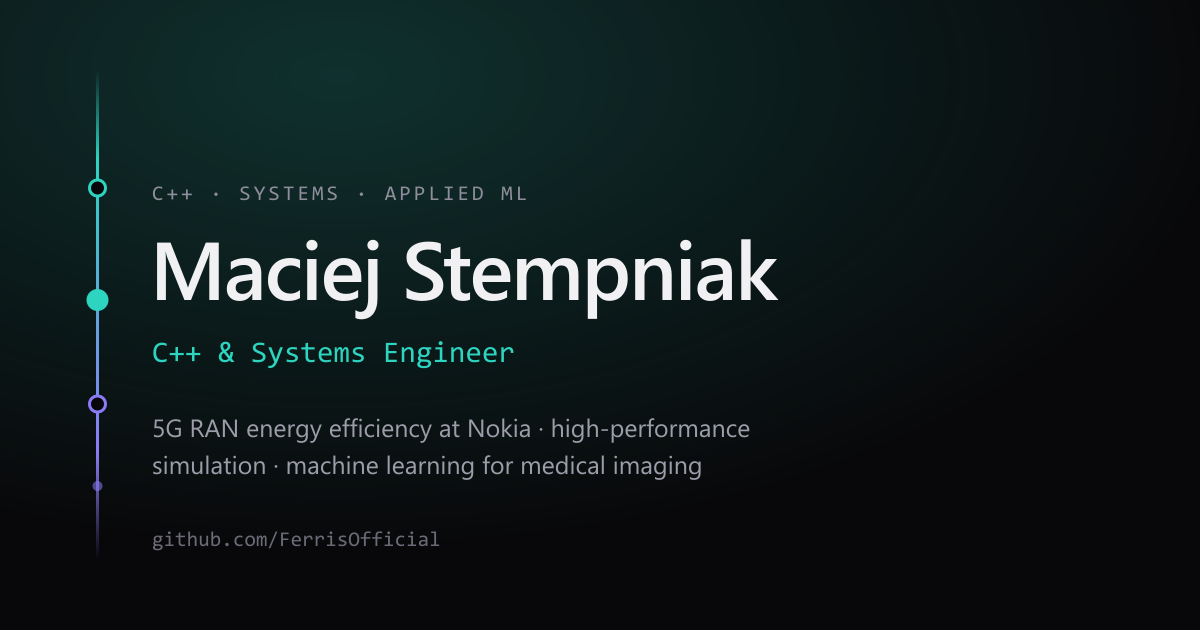
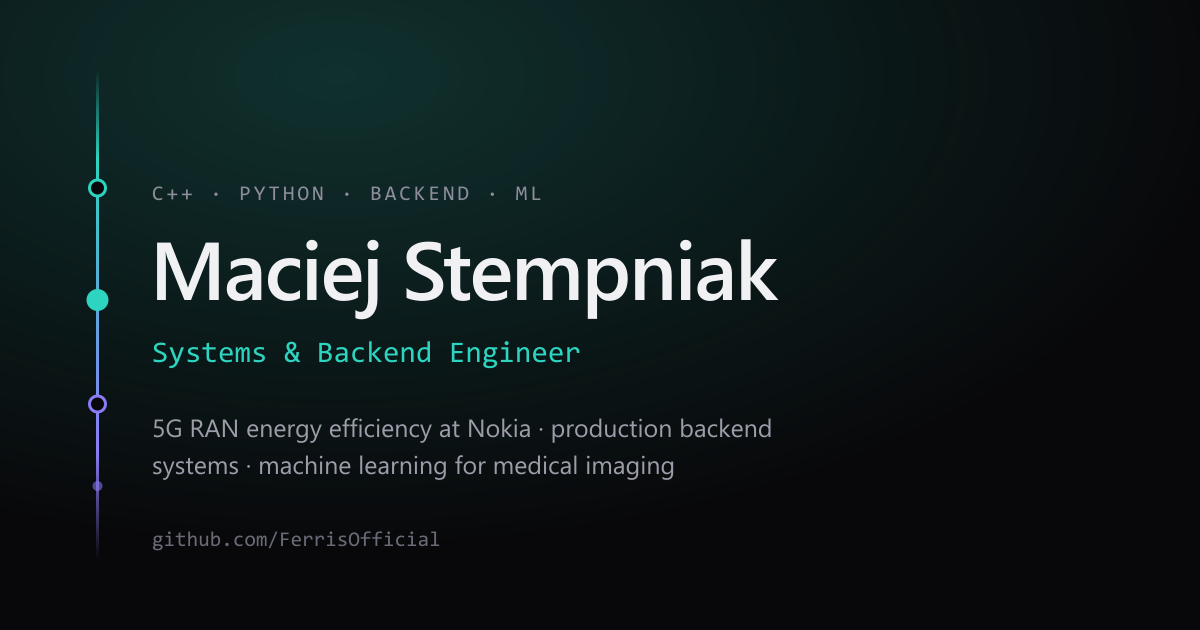
Reposition site copy as backend engineer with ML/AI interest
Broadens the headline identity from "C++ & Systems Engineer" to "Systems
& Backend Engineer" across site.ts, Hero, Contact, the console
easter-egg, and the OG image, for a job search targeting C++/Python
backend roles with ML/AI as a differentiator. The Skills toolkit gains a
Backend & Cloud card (Docker, SQL Server, Kubernetes, Azure) drawn from
real production experience, without naming the current job's domain.

diff --git a/src/site.ts b/src/site.ts
@@ -1,11 +1,11 @@
 /** Single source of truth for personal details, reused by the layout, hero and contact. */
 export const site = {
   name: 'Maciej Stempniak',
-  role: 'C++ & Systems Engineer',
+  role: 'Systems & Backend Engineer',
   url: 'https://ferrisofficial.github.io',
   location: 'Poland',
   description:
-    'C++ and systems engineer. 5G RAN energy efficiency at Nokia, high-performance simulation, and applied machine learning for medical imaging.',
+    'Systems and backend engineer working in C++ and Python. 5G RAN energy efficiency at Nokia, production backend systems since, and applied machine learning for medical imaging.',
   email: 'maciek.m.stempniak@gmail.com',
   github: 'https://github.com/FerrisOfficial',
   githubHandle: 'FerrisOfficial',
